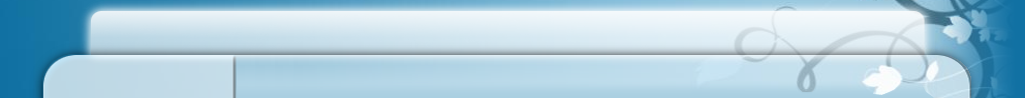
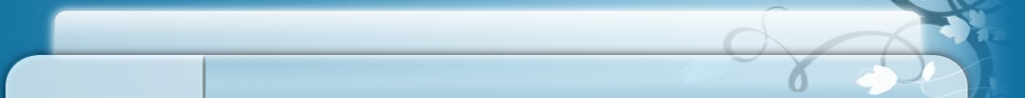
- ?largissement du conteneur

diff --git a/templates/base/design.css b/templates/base/design.css
@@ -77,16 +77,17 @@ div#left_menu{
 	width:190px;
 	padding:0;
 	margin:0;
-	margin-left:35px;
+	margin-left:5px;
 	padding-top:10px;
 }
 /* #####  Contenu de la page ###### */
 div#main{
 	background:url(images/right_global.png) no-repeat right top;
+	margin-right:2px;
 }
 div#main2{
 	float:left;
-	width:700px;
+	width:760px;
 	padding-bottom:15px;
 	margin-left:12px;
 }
